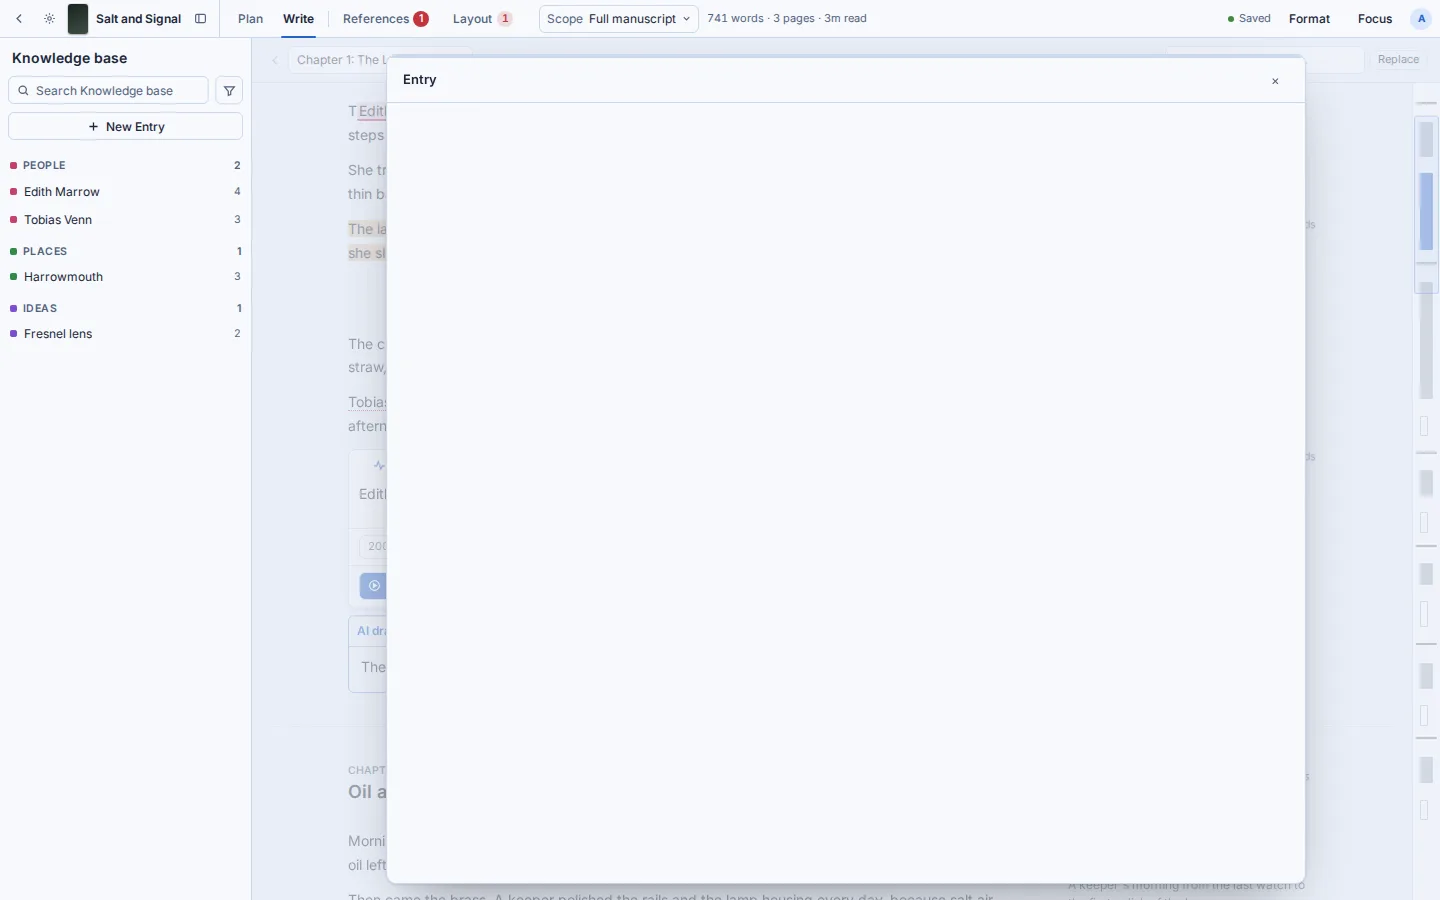
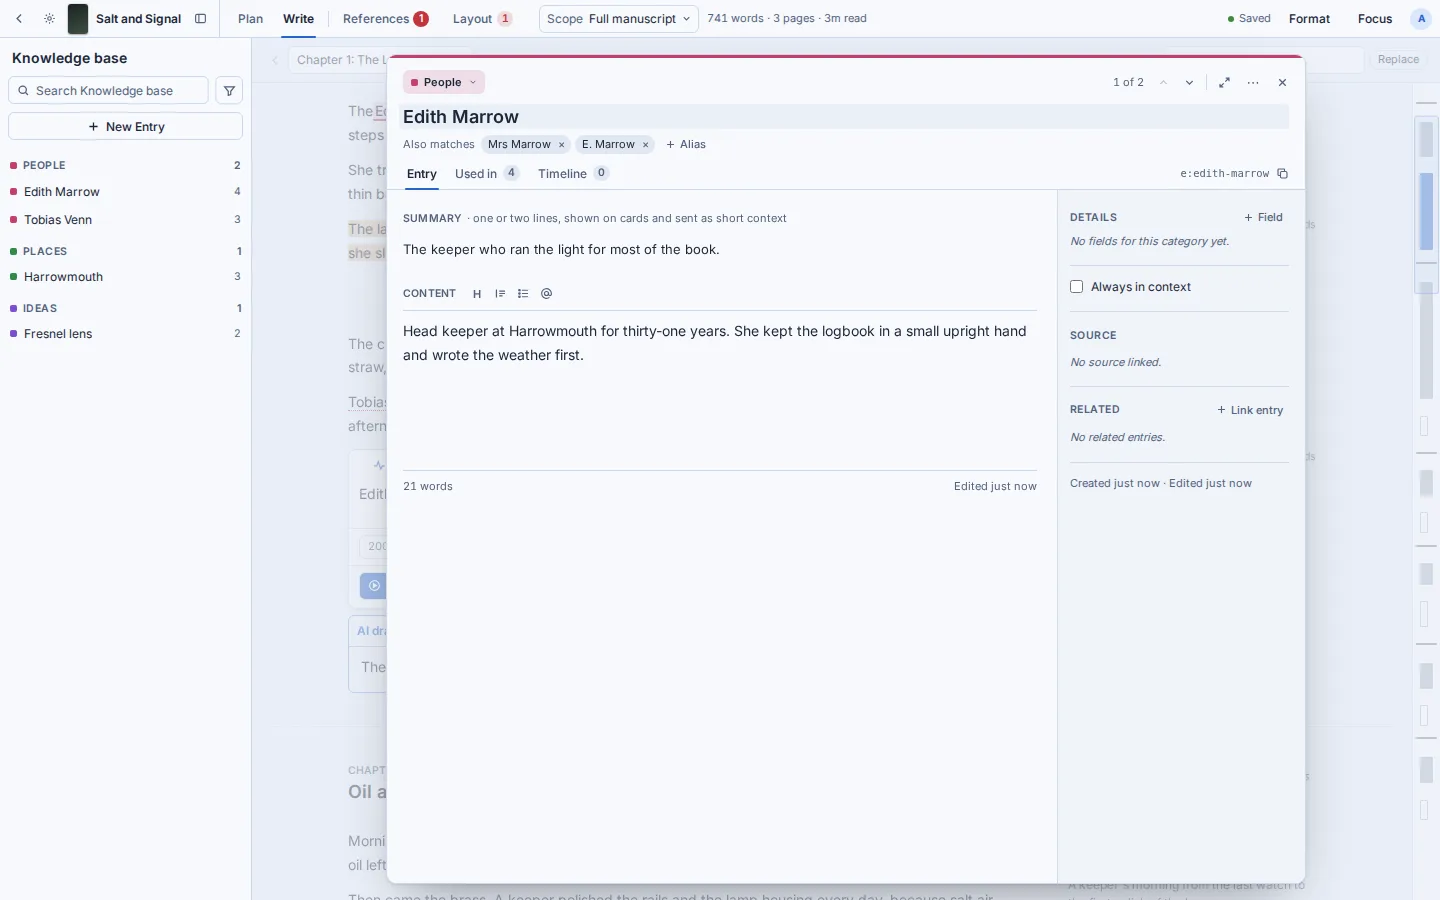
CDX-30 CDX-34: Finish Knowledge base documentation (#2)
* CDX-34 Address knowledge base review findings

* CDX-34 Capture verified knowledge base journeys

---------

diff --git a/scripts/shots/specs/ui-knowledge-base.ts b/scripts/shots/specs/ui-knowledge-base.ts
@@ -31,6 +31,7 @@ async function dragEntryToScene(page: Page, entryId: string, sceneId: string): P
   const card = page.getByTestId(`plan-scene-${sceneId}`);
   await card.scrollIntoViewIfNeeded();
   await item.dragTo(card);
+  await page.mouse.move(0, 0);
   await page.getByTestId(`plan-entry-${sceneId}-${entryId}`).waitFor();
 }
 
@@ -45,6 +46,7 @@ async function typeInScene(page: Page, ctx: SeedResult, scene: string, text: str
     document.dispatchEvent(new Event("selectionchange"));
   });
   await page.keyboard.type(text);
+  await page.mouse.move(0, 0);
   await page.getByTestId("write-manuscript").focus();
   await page.waitForFunction(
     () => document.querySelector("[data-testid='editing-save-status']")?.getAttribute("data-state") === "saved",
@@ -57,7 +59,20 @@ async function dropMention(page: Page, ctx: SeedResult, name: string): Promise<v
   const editor = page.getByTestId(`write-scene-${ctx.sceneIds["1.1"]}`).getByTestId("prose-editor");
   await editor.waitFor();
   const before = await page.getByTestId("write-kb-mention").count();
-  await page.getByTestId(`shell-kb-item-${ctx.entryIds[name]}`).dragTo(editor, { targetPosition: { x: 12, y: 8 } });
+  const targetPosition = await editor.evaluate((element) => {
+    const node = element.querySelector("p")?.firstChild;
+    if (!node || node.nodeType !== Node.TEXT_NODE) throw new Error("Scene text not found");
+    const offset = node.textContent?.indexOf(" ") ?? -1;
+    if (offset < 0) throw new Error("No word gap found");
+    const range = document.createRange();
+    range.setStart(node, offset);
+    range.setEnd(node, offset + 1);
+    const gap = range.getBoundingClientRect();
+    const bounds = element.getBoundingClientRect();
+    return { x: gap.left + gap.width / 2 - bounds.left, y: gap.top + gap.height / 2 - bounds.top };
+  });
+  await page.getByTestId(`shell-kb-item-${ctx.entryIds[name]}`).dragTo(editor, { targetPosition });
+  await page.mouse.move(0, 0);
   await page.waitForFunction(
     (n) => document.querySelectorAll("[data-testid='write-kb-mention']").length > n,
     before,
@@ -326,6 +341,7 @@ export const shots: ShotSpec[] = [
       await openSidebar(page, ctx);
       await page.locator("[data-testid^='kb-category-'] h4").first().hover();
       await page.locator("[data-testid^='kb-category-menu-']").first().click();
+      await page.locator("[data-testid^='kb-category-colour-']").nth(2).click();
       await page.getByTestId("kb-category-rename-input").fill("Characters");
       await page.getByTestId("kb-category-rename-save").click();
       await page.getByText("Characters", { exact: true }).first().waitFor();
@@ -427,6 +443,8 @@ export const shots: ShotSpec[] = [
       await page.getByTestId(`shell-kb-item-${ctx.entryIds["Edith Marrow"]}`).click();
       await page.locator("[data-testid^='plan-scene-'][data-emphasis='hit']").first().waitFor();
       await page.locator("[data-testid^='plan-scene-'][data-emphasis='dim']").first().waitFor();
+      await page.getByTestId("kb-entry-window-close").click();
+      await page.getByTestId("kb-entry-window").waitFor({ state: "detached" });
     },
   },
   {
@@ -461,6 +479,7 @@ export const shots: ShotSpec[] = [
       await mention.waitFor();
       await mention.click({ modifiers: ["Control"] });
       await page.getByTestId("kb-entry-window").waitFor();
+      await page.waitForFunction(() => (document.querySelector("[data-testid='kb-entry-name']") as HTMLInputElement | null)?.value === "Edith Marrow");
     },
   },
   {
@@ -485,7 +504,11 @@ export const shots: ShotSpec[] = [
       await typeInScene(page, ctx, "1.1", "/codex");
       await page.getByTestId("prose-slash-item-codex-addition").click();
       await page.getByTestId(`write-entry-picker-${ctx.entryIds["Edith Marrow"]}`).click();
-      await page.getByTestId("prose-directive-kb-addition").first().waitFor();
+      const body = page.locator("[data-testid^='write-addition-body-']").first();
+      await body.fill("From here Edith is head keeper and signs the logbook.");
+      const saved = page.waitForResponse((r) => r.request().method() === "PATCH" && r.url().includes("/kb-additions/"));
+      await page.getByTestId("write-manuscript").focus();
+      await saved;
     },
   },
   {
@@ -532,4 +555,48 @@ export const shots: ShotSpec[] = [
       await page.getByText("Deleted Edith Marrow").waitFor();
     },
   },
+  {
+    name: "ui-knowledge-base-timeline-edited",
+    route: entryRoute("Edith Marrow"),
+    steps: async (page, ctx) => {
+      await openEntry(page, ctx, "Edith Marrow");
+      await page.getByTestId("kb-tab-timeline").click();
+      await page.getByTestId("kb-timeline-add").click();
+      await page.getByTestId("kb-timeline-add-text").fill("Edith signs the logbook.");
+      await page.getByTestId("kb-timeline-add-submit").click();
+      await page.locator("[data-testid^='kb-timeline-edit-']").first().click();
+      await page.locator("[data-testid^='kb-timeline-edit-text-']").fill("Edith signs the logbook and trims the wick.");
+      await page.locator("[data-testid^='kb-timeline-edit-save-']").click();
+      await page.getByText("Edith signs the logbook and trims the wick.").waitFor();
+    },
+  },
+  {
+    name: "ui-knowledge-base-deleted-undone",
+    route: entryRoute("Edith Marrow"),
+    steps: async (page, ctx) => {
+      await openEntry(page, ctx, "Edith Marrow");
+      await openMenu(page);
+      await page.getByTestId("kb-entry-menu-delete").click();
+      await page.getByTestId("kb-delete-confirm").click();
+      await page.getByTestId("editing-toast-undo").click();
+      await page.getByTestId(`shell-kb-item-${ctx.entryIds["Edith Marrow"]}`).waitFor();
+    },
+  },
+  {
+    name: "ui-knowledge-base-category-deleted",
+    route: entryRoute("Fresnel lens"),
+    steps: async (page, ctx) => {
+      await openEntry(page, ctx, "Fresnel lens");
+      await page.getByTestId("kb-category-chip").click();
+      await page.locator("[data-testid^='kb-category-option-']").filter({ hasText: "Places" }).click();
+      await page.getByTestId("kb-category-chip").filter({ hasText: "Places" }).waitFor();
+      await page.getByTestId("kb-entry-window-close").click();
+      const heading = page.locator("[data-testid^='kb-category-']").filter({ has: page.getByRole("heading", { name: "Ideas" }) });
+      await heading.hover();
+      await heading.locator("[data-testid^='kb-category-menu-']").click();
+      await heading.locator("[data-testid^='kb-category-delete-']").click();
+      await page.getByText("Deleted category Ideas").waitFor();
+    },
+  },
+
 ];
